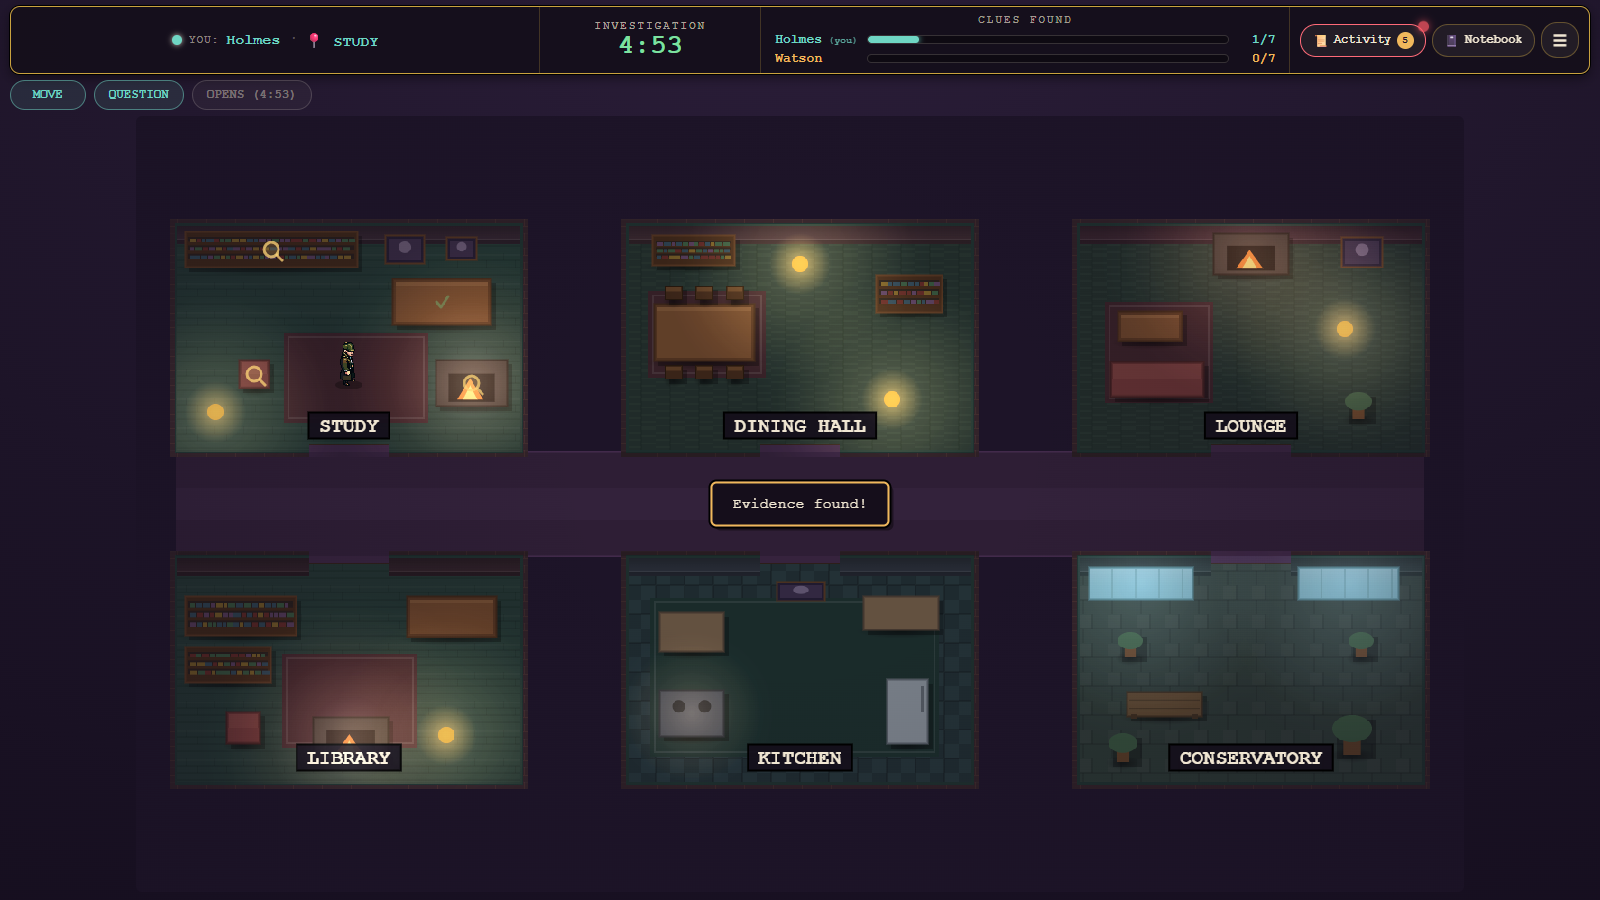
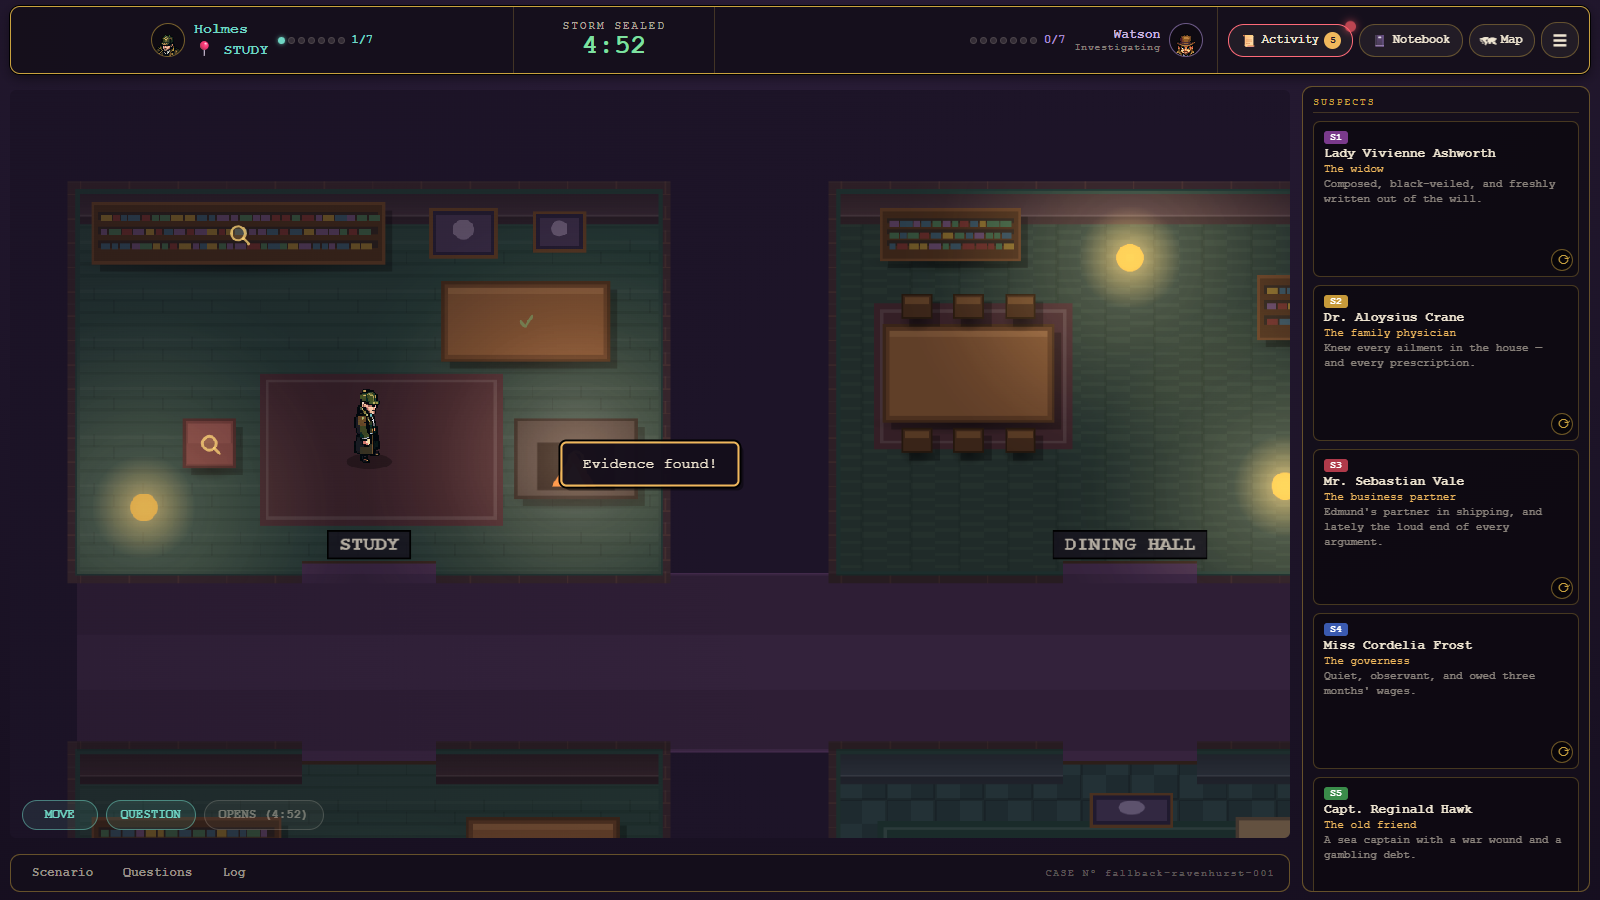
Put the detective on the map, stop standing on furniture, stop giving the answer away
Three complaints from playtesting, one visual, one physical, one that goes
to the heart of whether the game is a deduction game at all.

THE MAP showed a teal marker dot. On a map of a house you are standing in,
you want to see yourself, so it now draws the detective's portrait at their
feet instead. The halo stays, because at map scale the sprite is about
18px and would disappear into the furniture underneath it.

STANDING ON THE FURNITURE. Walking up to the knife rack or a bookshelf put
the sprite squarely on top of it. The instinct is to make those pieces
solid, and that is wrong twice over: the knife rack and the chandelier both
sit in their room's door column, so a collision box there would wall the
room off entirely, and you are meant to walk under a chandelier. The
problem was never collision, it was draw order -- wall- and ceiling-mounted
pieces were painted UNDER the character. They now carry `overhead: true`
and are re-blitted after the character every frame, so your head passes
behind them, which is what standing at a shelf is supposed to look like.
Reserved for pieces genuinely above the floor plane or flush to the far
wall; marking a desk or a sofa overhead would draw it over someone standing
in front of it, which is the same bug pointing the other way.

THE EVIDENCE WAS DOING THE DEDUCTION FOR YOU. A clue read "the killer was
left-handed -- Dr. Crane and Miss Frost are both firmly right-handed",
[…]

diff --git a/shared/roomObjects.js b/shared/roomObjects.js
@@ -37,7 +37,19 @@
 //
 // Pieces that hang on a wall or from the ceiling (paintings, the knife rack, the
 // chandelier, glazing) are deliberately `solid: false` — they are above or behind
-// the floor plane, so they are examinable without ever being an obstacle.
+// the floor plane, so they are examinable without ever being an obstacle. Making
+// them solid is NOT the fix for anything: the knife rack and the chandelier both
+// sit in their room's door column, so a collision box there would wall the room off.
+//
+// `overhead: true` is the VISUAL half of that, and the two are separate on purpose.
+// A non-solid piece you can stand inside, and a floor-standing piece against the FAR
+// wall, were both drawn UNDER the detective — so walking up to the knife rack or the
+// bookshelf put the sprite squarely on top of it and read as standing on the
+// furniture. Overhead pieces are re-blitted after the character every frame, so your
+// head passes behind them, which is what "I am at the shelf" is supposed to look
+// like. Reserve it for things genuinely above the floor plane or flush to the top
+// wall — marking a desk or a sofa overhead would draw it over someone standing in
+// front of it, which is the same bug pointing the other way.
 
 // Room-relative furniture. `kind` selects the renderer; `solid` blocks feet;
 // `searchable` promotes the object to an examinable hotspot (needs `name`);
@@ -63,13 +75,13 @@ export const ROOM_OBJECTS = {
     // dead-centre, which spawned the detective inside it and walled the exit off —
     // pieces hug the walls and corners instead, leaving an open centre aisle.
     { id: "study_rug", kind: "rug", x: 120, y: 120, w: 160, h: 100, solid: false, searchable: false },
-    { id: "study_bookshelf", name: "The Bookshelf", kind: "bookshelf", x: 10, y: 8, w: 192, h: 40, solid: true, tall: true, searchable: true },
+    { id: "study_bookshelf", name: "The Bookshelf", kind: "bookshelf", x: 10, y: 8, w: 192, h: 40, solid: true, tall: true, searchable: true, overhead: true },
     { id: "study_desk", name: "The Desk", kind: "desk", x: 240, y: 60, w: 110, h: 52, solid: true, searchable: true },
     { id: "study_armchair", name: "The Armchair", kind: "armchair", x: 70, y: 150, w: 34, h: 32, solid: true, searchable: true },
     { id: "study_fireplace", name: "The Fireplace", kind: "fireplace", x: 288, y: 150, w: 80, h: 52, solid: true, tall: true, searchable: true },
     { id: "study_lamp", kind: "lamp", x: 36, y: 200, w: 16, h: 16, solid: false, searchable: false },
-    { id: "study_painting_a", kind: "painting", x: 232, y: 12, w: 44, h: 32, solid: false, searchable: false },
-    { id: "study_painting_b", kind: "painting", x: 300, y: 14, w: 34, h: 26, solid: false, searchable: false },
+    { id: "study_painting_a", kind: "painting", x: 232, y: 12, w: 44, h: 32, solid: false, searchable: false, overhead: true },
+    { id: "study_painting_b", kind: "painting", x: 300, y: 14, w: 34, h: 26, solid: false, searchable: false, overhead: true },
   ],
 
   // ---- DINING HALL — row 0, door at the BOTTOM (aisle x148..236, y126..252) --
@@ -82,9 +94,9 @@ export const ROOM_OBJECTS = {
     { id: "dining_chair_d", kind: "chair", x: 42, y: 156, w: 20, h: 16, solid: true, searchable: false },
     { id: "dining_chair_e", kind: "chair", x: 76, y: 156, w: 20, h: 16, solid: true, searchable: false },
     { id: "dining_chair_f", kind: "chair", x: 110, y: 156, w: 20, h: 16, solid: true, searchable: false },
-    { id: "dining_sideboard", name: "The Sideboard", kind: "bookshelf", x: 28, y: 12, w: 92, h: 34, solid: true, tall: true, searchable: true },
+    { id: "dining_sideboard", name: "The Sideboard", kind: "bookshelf", x: 28, y: 12, w: 92, h: 34, solid: true, tall: true, searchable: true, overhead: true },
     // Overhead — hangs above head height, so it is examinable but never blocks.
-    { id: "dining_chandelier", name: "The Chandelier", kind: "lamp", x: 174, y: 26, w: 36, h: 36, solid: false, searchable: true },
+    { id: "dining_chandelier", name: "The Chandelier", kind: "lamp", x: 174, y: 26, w: 36, h: 36, solid: false, searchable: true, overhead: true },
     { id: "dining_wine_cabinet", name: "The Wine Cabinet", kind: "bookshelf", x: 276, y: 56, w: 74, h: 42, solid: true, tall: true, searchable: true },
     { id: "dining_lamp_l", kind: "lamp", x: 286, y: 186, w: 16, h: 16, solid: false, searchable: false },
   ],
@@ -92,11 +104,11 @@ export const ROOM_OBJECTS = {
   // ---- LOUNGE — row 0, door at the BOTTOM ----------------------------------
   lounge: [
     { id: "lounge_rug", kind: "rug", x: 30, y: 86, w: 120, h: 112, solid: false, searchable: false, color: "#4a2c34" },
-    { id: "lounge_fireplace", name: "The Fireplace", kind: "fireplace", x: 150, y: 10, w: 84, h: 46, solid: true, tall: true, searchable: true },
+    { id: "lounge_fireplace", name: "The Fireplace", kind: "fireplace", x: 150, y: 10, w: 84, h: 46, solid: true, tall: true, searchable: true, overhead: true },
     { id: "lounge_sofa", name: "The Sofa", kind: "sofa", x: 36, y: 152, w: 104, h: 40, solid: true, searchable: true },
     { id: "lounge_coffee_table", name: "The Coffee Table", kind: "desk", x: 44, y: 96, w: 72, h: 34, solid: true, searchable: true },
     // Wall-hung: on the wall, not on the floor — decoration, never an obstacle.
-    { id: "lounge_painting", name: "The Wall Painting", kind: "painting", x: 292, y: 14, w: 46, h: 34, solid: false, searchable: true },
+    { id: "lounge_painting", name: "The Wall Painting", kind: "painting", x: 292, y: 14, w: 46, h: 34, solid: false, searchable: true, overhead: true },
     { id: "lounge_plant", kind: "plant", x: 296, y: 186, w: 30, h: 30, solid: true, searchable: false },
     { id: "lounge_lamp", kind: "lamp", x: 288, y: 108, w: 16, h: 16, solid: false, searchable: false },
   ],
@@ -104,7 +116,7 @@ export const ROOM_OBJECTS = {
   // ---- LIBRARY — row 1, door at the TOP (aisle x148..236, y0..126) ---------
   library: [
     { id: "library_rug", kind: "rug", x: 118, y: 108, w: 150, h: 104, solid: false, searchable: false, color: "#4a2c34" },
-    { id: "library_bookshelves", name: "The Tall Bookshelves", kind: "bookshelf", x: 10, y: 44, w: 124, h: 44, solid: true, tall: true, searchable: true },
+    { id: "library_bookshelves", name: "The Tall Bookshelves", kind: "bookshelf", x: 10, y: 44, w: 124, h: 44, solid: true, tall: true, searchable: true, overhead: true },
     { id: "library_shelf_b", kind: "bookshelf", x: 10, y: 100, w: 96, h: 40, solid: true, tall: true, searchable: false },
     { id: "library_writing_desk", name: "The Writing Desk", kind: "desk", x: 256, y: 44, w: 100, h: 46, solid: true, searchable: true },
     { id: "library_fireplace", name: "The Fireplace", kind: "fireplace", x: 152, y: 178, w: 84, h: 48, solid: true, tall: true, searchable: true },
@@ -116,7 +128,7 @@ export const ROOM_OBJECTS = {
   kitchen: [
     { id: "kitchen_floor", kind: "rug", x: 26, y: 46, w: 320, h: 176, solid: false, searchable: false, color: "#263e39" },
     // Wall-mounted rack — hangs on the wall, so it is reachable but not solid.
-    { id: "kitchen_knife_rack", name: "The Knife Rack", kind: "painting", x: 166, y: 28, w: 54, h: 22, solid: false, searchable: true },
+    { id: "kitchen_knife_rack", name: "The Knife Rack", kind: "painting", x: 166, y: 28, w: 54, h: 22, solid: false, searchable: true, overhead: true },
     { id: "kitchen_stove", name: "The Stove", kind: "stove", x: 36, y: 148, w: 72, h: 52, solid: true, searchable: true },
     { id: "kitchen_sink", name: "The Sink", kind: "counter", x: 36, y: 62, w: 72, h: 44, solid: true, searchable: true },
     { id: "kitchen_pantry", name: "The Pantry", kind: "fridge", x: 288, y: 136, w: 46, h: 72, solid: true, tall: true, searchable: true },
@@ -126,8 +138,8 @@ export const ROOM_OBJECTS = {
   // ---- CONSERVATORY — row 1, door at the TOP -------------------------------
   conservatory: [
     // Glazing is split either side of the door column so the entrance stays clear.
-    { id: "conservatory_glass_l", kind: "window", x: 12, y: 12, w: 116, h: 36, solid: false, tall: true, searchable: false },
-    { id: "conservatory_windows", name: "The Glass Windows", kind: "window", x: 244, y: 12, w: 112, h: 36, solid: false, tall: true, searchable: true },
+    { id: "conservatory_glass_l", kind: "window", x: 12, y: 12, w: 116, h: 36, solid: false, tall: true, searchable: false, overhead: true },
+    { id: "conservatory_windows", name: "The Glass Windows", kind: "window", x: 244, y: 12, w: 112, h: 36, solid: false, tall: true, searchable: true, overhead: true },
     { id: "conservatory_bench", name: "The Garden Bench", kind: "bench", x: 54, y: 150, w: 84, h: 28, solid: true, searchable: true },
     { id: "conservatory_plants", name: "The Plant Pots", kind: "plant", x: 34, y: 196, w: 32, h: 32, solid: true, searchable: true },
     { id: "conservatory_fountain", name: "The Fountain", kind: "plant", x: 282, y: 176, w: 44, h: 44, solid: true, searchable: true },

diff --git a/client/src/game/drawBoard.js b/client/src/game/drawBoard.js
@@ -576,6 +576,22 @@ function checkMark(c, px, py, alpha) {
 // intersect the sprite.
 const CH_HALF_W = 50, CH_TOP = 76, CH_BOT = 24;   // sprite box around the FEET
 
+// Pieces that hang above the floor plane, or stand flush against the FAR wall, are
+// re-blitted over the detective EVERY frame — no feet test. Walking up to the knife
+// rack or a bookshelf used to draw the sprite squarely on top of it, which read as
+// standing on the furniture; now the head passes behind it. Unconditional is the
+// point: an overhead piece is never something you can be in front of.
+export function drawOverhead(c, roomId) {
+  if (!roomId) return;
+  const { bg, scale: S } = getBoardLayers(paintStatic);
+  const r = roomRect(roomId);
+  for (const o of objectsIn(roomId)) {
+    if (!o.overhead) continue;
+    const ax = r.x + o.x, ay = r.y + o.y;
+    c.drawImage(bg, ax * S, ay * S, o.w * S, o.h * S, ax, ay, o.w, o.h);
+  }
+}
+
 export function drawOccluders(c, roomId, feetX, feetY) {
   if (!roomId) return;
   const { bg, scale: S } = getBoardLayers(paintStatic);
@@ -583,7 +599,7 @@ export function drawOccluders(c, roomId, feetX, feetY) {
   const cl = feetX - CH_HALF_W, cr = feetX + CH_HALF_W;
   const ct = feetY - CH_TOP, cb = feetY + CH_BOT;
   for (const o of objectsIn(roomId)) {
-    if (!o.tall) continue;
+    if (!o.tall || o.overhead) continue;   // overhead pieces draw unconditionally, in drawOverhead
     const ax = r.x + o.x, ay = r.y + o.y, bottom = ay + o.h;
     // A piece only occludes when it extends BELOW the feet — i.e. the detective
     // is standing further back than the object's front face.
@@ -772,7 +788,7 @@ export function drawSearching(c, cx, cy, hx, hy, startTime) {
 //
 // PRIVACY: only the requesting player's own room is ever marked. The opponent's
 // position is not in buildView() and must never be added to it.
-export function drawMiniMap(c, w, h, { examined = new Set(), player = null } = {}) {
+export function drawMiniMap(c, w, h, { examined = new Set(), player = null, avatar = null } = {}) {
   const { bg } = getBoardLayers(paintStatic);
   const k = w / BOARD_W;
 
@@ -819,28 +835,34 @@ export function drawMiniMap(c, w, h, { examined = new Set(), player = null } = {
   }
 
   // --- you are here --------------------------------------------------------
-  // A single dot at the detective's actual feet, which means it is correct in the
-  // corridor and between rooms too, and it MOVES while the map is open.
+  // The DETECTIVE, at their actual feet — correct in the corridor and between
+  // rooms too, and it MOVES while the map is open. A marker dot was the first
+  // version and it read as an abstraction; on a map of your own house you want to
+  // see yourself. The soft halo stays, because at this scale the sprite alone is
+  // about 18px and would vanish against the furniture underneath it.
   if (player) {
     const px = player.x * k, py = player.y * k;
     const pulse = 0.5 + 0.5 * Math.sin(Date.now() / 320);
 
     c.beginPath();
-    c.arc(px, py, 7 + 3 * pulse, 0, Math.PI * 2);
-    c.fillStyle = `rgba(111,214,196,${0.16 + 0.12 * pulse})`;
+    c.arc(px, py - 5, 11 + 3 * pulse, 0, Math.PI * 2);
+    c.fillStyle = `rgba(111,214,196,${0.18 + 0.12 * pulse})`;
     c.fill();
 
-    c.beginPath();
-    c.arc(px, py, 4.2, 0, Math.PI * 2);
-    c.fillStyle = P.tealTxt;
-    c.shadowColor = P.tealTxt;
-    c.shadowBlur = 8;
-    c.fill();
-    c.shadowBlur = 0;
-
-    c.lineWidth = 1.4;
-    c.strokeStyle = "rgba(10,8,16,0.85)";
-    c.stroke();
+    if (avatar?.complete && avatar.naturalWidth) {
+      // Feet-anchored, matching how the character is drawn on the board.
+      const sw = 26, sh = 26;
+      c.save();
+      c.imageSmoothingEnabled = false;
+      c.drawImage(avatar, px - sw / 2, py - sh + 4, sw, sh);
+      c.restore();
+    } else {
+      // The portrait is one small PNG, but never assume it has decoded yet.
+      c.beginPath();
+      c.arc(px, py, 4.2, 0, Math.PI * 2);
+      c.fillStyle = P.tealTxt;
+      c.fill();
+    }
   }
   c.restore();
 }

diff --git a/client/src/components/SuspectCard.jsx b/client/src/components/SuspectCard.jsx
@@ -11,10 +11,10 @@ const NEXT = { unknown: "suspected", suspected: "cleared", cleared: "unknown" };
 // is its own corner button. Putting both on the card would mean every attempt to
 // mark someone risked flipping them instead.
 //
-// The bio is FLAVOUR ONLY and says so on the card. validateCase() proves a case is
-// solvable from `clue.eliminates` alone and knows nothing about these fields, so a
-// player who treats "5'3\", stout" as evidence is reasoning about something the
-// game never promised — the note is there to stop that being a trap.
+// The dossier on the back is EVIDENCE, and the card says so. The clues describe what
+// the killer was — a left hand on the knot, someone who took the servants' stair at
+// speed — and this is where you find out who that rules out. Clues that named the
+// people to cross off did the deduction for the player and left nothing to do.
 export default function SuspectCard({ suspect, index, status = "unknown", onCycle, onQuestion }) {
   const [flipped, setFlipped] = useState(false);
   const chip = suspectChip(index);
@@ -22,6 +22,7 @@ export default function SuspectCard({ suspect, index, status = "unknown", onCycl
     ["Age", suspect.age],
     ["Height", suspect.height],
     ["Build", suspect.build],
+    ["Handed", suspect.handedness],
     ["Occupation", suspect.occupation],
   ].filter(([, v]) => v != null && v !== "");
 
@@ -54,7 +55,8 @@ export default function SuspectCard({ suspect, index, status = "unknown", onCycl
           ) : (
             <span className="sus-blurb">No dossier on file.</span>
           )}
-          <span className="sus-flavour">Background detail only — none of this clears or condemns anyone.</span>
+          {suspect.note && <span className="sus-note">{suspect.note}</span>}
+          <span className="sus-flavour">Compare this against what the evidence describes.</span>
           {onQuestion && (
             <button className="sus-question" onClick={() => onQuestion(suspect.id)}>Question</button>
           )}

diff --git a/shared/caseSchema.js b/shared/caseSchema.js
@@ -12,13 +12,18 @@
 // the solution (so it's exposed as false once the real clues are in).
 //
 // Expected case shape:
-// A suspect may also carry OPTIONAL flavour fields — { age, height, build,
-// occupation } — rendered on the back of its card in the suspect rail. They are
-// deliberately NOT validated and must stay non-eliminating: this validator only
-// reasons about `clue.eliminates`, so a bio detail that narrows the field (say a
-// time of arrival that matches a clue's timeline, or a handedness) would hand out
-// a free deduction it cannot see, and solvability would silently stop meaning
-// what it claims. Keep bios atmospheric; put real evidence in clues.
+// A suspect may also carry OPTIONAL dossier fields — { age, height, build,
+// occupation, handedness, note } — rendered on the back of its card in the suspect
+// rail. These ARE allowed to discriminate, and the good clues depend on it: a clue
+// says what the KILLER was ("the knot was pulled to the left") and the player
+// crosses names off by reading the cards. Clues that name who to eliminate instead
+// do the deduction for the player and are the reason the first pass felt hollow.
+//
+// The rule that makes this safe: `clue.eliminates` stays the ONLY machine-checkable
+// truth. This validator proves solvability from it alone, so every dossier detail a
+// clue leans on MUST also be reflected in that clue's `eliminates` list. A detail
+// the cards imply but no clue eliminates on is unprovable — the player may reason
+// from it, but the case is not guaranteed solvable by it.
 //
 //   { case_id, map, narrative, solution:{ culprit_id, weapon_id, room_id },
 //     suspects:[...6], weapons:[...6],

diff --git a/client/src/components/MapOverlay.jsx b/client/src/components/MapOverlay.jsx
@@ -17,13 +17,22 @@ import { ROOMS } from "../game/boardData.js";
 const MAP_W = 440;
 const MAP_H = 257;   // 440 * (860 / 1472), the board's aspect
 
-export default function MapOverlay({ open, roomLabel, examined = [], onClose }) {
+export default function MapOverlay({ open, me = "holmes", roomLabel, examined = [], onClose }) {
   const canvasRef = useRef(null);
+  // The same head-on portrait the top bar uses. One small PNG, decoded once and
+  // reused every frame; drawMiniMap falls back to a plain dot until it is ready.
+  const avatarRef = useRef(null);
   const examinedRef = useRef(new Set(examined));
   examinedRef.current = new Set(examined);
   // Only for the caption under the map. Updated on a 250ms tick rather than per
   // frame: it changes when you cross a doorway, not sixty times a second.
   const [where, setWhere] = useState(null);
+
+  useEffect(() => {
+    const img = new Image();
+    img.src = `/assets/${me}/rotations/south.png`;
+    avatarRef.current = img;
+  }, [me]);
 
   useEffect(() => {
     if (!open) return;
@@ -33,7 +42,7 @@ export default function MapOverlay({ open, roomLabel, examined = [], onClose }) 
 
     let raf;
     const frame = () => {
-      drawMiniMap(c, MAP_W, MAP_H, { examined: examinedRef.current, player: getPlayerPos() });
+      drawMiniMap(c, MAP_W, MAP_H, { examined: examinedRef.current, player: getPlayerPos(), avatar: avatarRef.current });
       raf = requestAnimationFrame(frame);
     };
     frame();

diff --git a/client/src/index.css b/client/src/index.css
@@ -973,7 +973,8 @@ body {
    flips. Sharing one target would mean every attempt to mark someone risked
    flipping them instead. prefers-reduced-motion already kills every transition
    globally, so the flip degrades to an instant swap for free. */
-.sus-card { position: relative; perspective: 900px; height: 118px; flex: 0 0 auto; }
+/* Tall enough for the five dossier rows plus the practical note on the back. */
+.sus-card { position: relative; perspective: 900px; height: 156px; flex: 0 0 auto; }
 .sus-inner {
   position: relative; width: 100%; height: 100%;
   transform-style: preserve-3d; transition: transform 0.45s ease;
@@ -1009,7 +1010,10 @@ body {
 .sus-bio-row { display: flex; justify-content: space-between; font-size: 11px; }
 .sus-bio-row dt { color: rgba(240,230,210,0.5); margin: 0; }
 .sus-bio-row dd { color: var(--cream); margin: 0; }
-.sus-flavour { margin-top: auto; font-size: 9px; font-style: italic; color: rgba(240,230,210,0.35); line-height: 1.3; }
+.sus-note {
+  margin-top: 4px; font-size: 10px; line-height: 1.35; color: rgba(240,230,210,0.62);
+}
+.sus-flavour { margin-top: auto; font-size: 9px; font-style: italic; color: rgba(240,230,210,0.32); line-height: 1.25; }
 .sus-question {
   font-family: inherit; font-size: 11px; font-weight: 700; color: var(--teal);
   background: rgba(111,214,196,0.1); border: 1px solid rgba(111,214,196,0.45);

diff --git a/server/views.js b/server/views.js
@@ -15,12 +15,16 @@ function publicCase(caseData) {
     victimName: caseData.narrative?.victim_name,
     opening: caseData.narrative?.opening,
     victimBackstory: caseData.narrative?.victim_backstory,
-    // age/height/build/occupation are FLAVOUR ONLY and safe to publish — see the
-    // note in shared/caseSchema.js. They are optional, so a case without them
-    // simply renders a shorter card.
+    // The dossier the detectives are entitled to: physical description and a
+    // practical note. These are DELIBERATELY discriminating — the clues describe
+    // what the killer was (left-handed, took the stairs at speed) and the player
+    // crosses names off by reading these. Safe to publish: they say nothing about
+    // the solution that the clue set does not already prove, and `clue.eliminates`
+    // remains the machine-checkable truth. See shared/caseSchema.js.
     suspects: (caseData.suspects || []).map((s) => ({
       id: s.id, name: s.name, role: s.role, blurb: s.blurb,
       age: s.age, height: s.height, build: s.build, occupation: s.occupation,
+      handedness: s.handedness, note: s.note,
     })),
     weapons: (caseData.weapons || []).map((w) => ({ id: w.id, name: w.name })),
     rooms: Object.entries(ROOMS).map(([id, r]) => ({ id, label: r.label })),

diff --git a/client/src/game/BoardCanvas.jsx b/client/src/game/BoardCanvas.jsx
@@ -1,6 +1,6 @@
 import { useRef, useEffect } from "react";
 import {
-  drawBoard, drawHotspots, drawOccluders, drawExamineGlow, drawBubble, searchBubbleScale,
+  drawBoard, drawHotspots, drawOccluders, drawOverhead, drawExamineGlow, drawBubble, searchBubbleScale,
 } from "./drawBoard.js";
 import { BOARD_W, BOARD_H, PALETTE, ROOM_IDS, roomRect } from "./boardData.js";
 import { makeCamera, VIEW_W, VIEW_H, DEFAULT_ZOOM, MIN_ZOOM, MAX_ZOOM } from "./camera.js";
@@ -247,7 +247,13 @@ export default function BoardCanvas({
         // Tall furniture the detective is standing behind is re-blitted over
         // them, so they can walk behind a bookshelf or hearth instead of
         // floating in front of everything.
-        if (!ch.inCorridor) drawOccluders(ctx, ch.anchorRoom, ch.x, ch.y);
+        if (!ch.inCorridor) {
+          drawOccluders(ctx, ch.anchorRoom, ch.x, ch.y);
+          // Wall- and ceiling-mounted pieces go over the detective unconditionally,
+          // so standing at the knife rack or a bookshelf puts your head behind it
+          // instead of your whole body on top of it.
+          drawOverhead(ctx, ch.anchorRoom);
+        }
       }
 
       // The hotspot being searched glows in WORLD space — it marks a piece of

diff --git a/client/src/App.jsx b/client/src/App.jsx
@@ -617,6 +617,7 @@ export default function App() {
 
       <MapOverlay
         open={showMap}
+        me={me}
         /* No room/inCorridor prop: the map reads the LIVE position itself, so it
            stays right in the corridor instead of still naming the room you left. */
         roomLabel={roomLabelOf(curRoom)}
